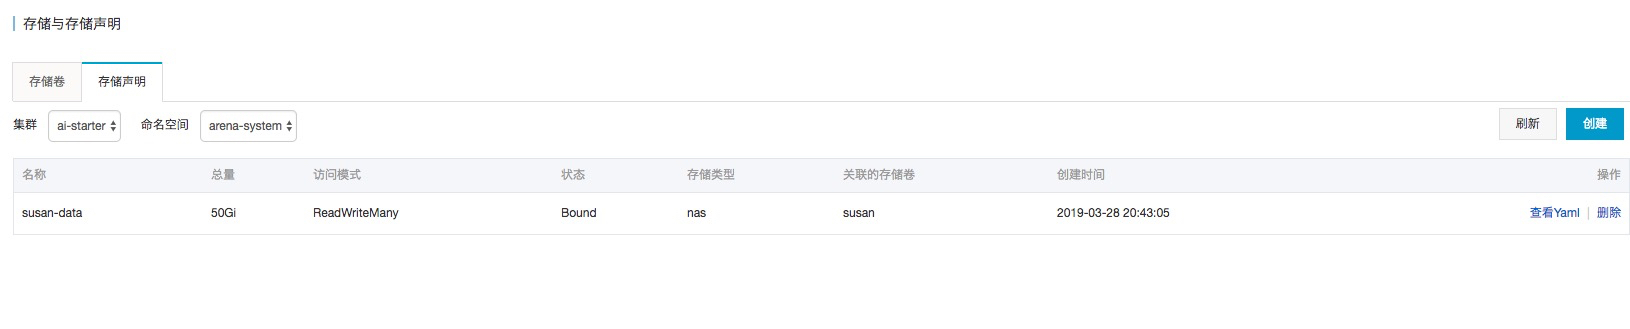
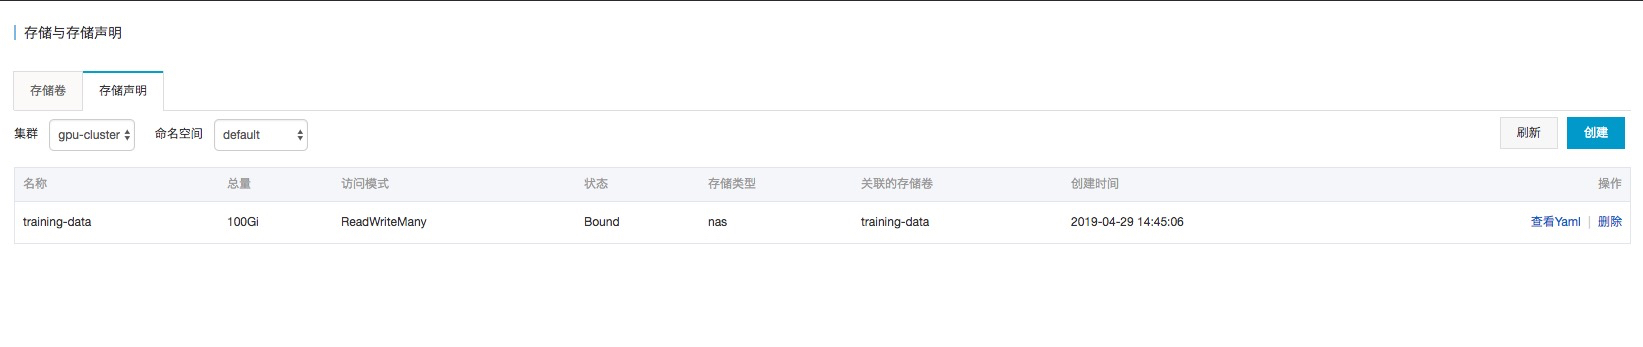
Update docs (#25)
* update install_notebook script for public data

* update docs: 1. public pvc is optional; 2. modify setup pvc docs

diff --git a/docs/setup/SETUP_USER_STORAGE.md b/docs/setup/SETUP_USER_STORAGE.md
@@ -1,7 +1,16 @@
-## 配置存放数据科学家的存储
-在Notebook中，为了保留数据科学家的工作内容。我们建议为用户创建属于自己的存储声明， 并挂载到Notebook的`/root`目录。 保障数据科学家的工作内容（代码，数据） 可以保留，不会随着容器删除而丢失。
-您需要创建属于每个数据科学家的存储声明，例如用户A和用户B，后端可以挂载到相同的NAS/CPFS，但是需要为指定不同的子目录保证他们工作环境内容隔离。
+## 配置Notebook存储
+在Notebook中，为了保留数据科学家的工作内容。我们建议为每个用户分配存储卷，并挂载到Notebook的`/root`目录， 确保数据科学家的工作内容（代码，数据）得以保留，不会随着容器删除而丢失。
 
-您可以通过以下流程创建属于数据科学家自己的存储：
+同时在团队开发中,我们建议分配一个共享的存储池，让数据和代码能够在团队中共享。部署Notebook时，如果您声明了配置公共存储，我们会将共享存储会挂载到Notebook的 `/root/public` 目录中，数据科学家可以通过这个目录，在团队之间可以相互分享数据，代码和模型。 
+
+在Kubernets中，通过存储卷和存储声明描述存储对象。 作为集群管理员，分配环境时您需要为每个数据科学家创建属于自己的存储声明，例如用户A和用户B，存储声明的后端可以挂载到相同的 NAS/CPFS，但是必须指定不同的子目录，保证他们工作环境隔离。
+
+#### 共享存储类型
+
+您可以通过以下流程创建存储声明，选择合适的存储类型：
 * [配置NAS存储](./SETUP_NAS.md)
 * [配置CPFS存储](./SETUP_CPFS.md)
+
+#### 步骤
+1. 您需要创建一个用于存放共享数据的存储卷，我们建议命名为`public-data`。（本步骤可选择操作）
+2. 搭建每个数据科学家的Notebook环境，您需要为他创建属于数据科学家自己的存储声明，用于存放他的工作数据，不同的数据科学家需要通过命名区分，本示例中我们命名为`traing-data`。

diff --git a/docs/setup/SETUP_NOTEBOOK.md b/docs/setup/SETUP_NOTEBOOK.md
@@ -37,8 +37,7 @@
 bash -s -- \
 --notebook-name susan \
 --ingress --ingress-domain foo.bar.com --ingress-secret notebook-secret \
---pvc-name susan-data \
---public-pvc-name public-data
+--pvc-name training-data
 ```
 
 上述安装执行中，可以通过以下参数定制部署的依赖组件：
@@ -49,8 +48,8 @@ bash -s -- \
 --ingress           指定是否为Notebook配置Ingress
 --ingress-domain    指定为Notebook配置的Ingress域名，仅在指定--ingress时生效
 --ingress-secret    指定为Notebook配置的Ingress，HTTPS使用的证书Secret，仅在指定--ingress时生效
---pvc-name          指定Notebook用于挂载的存储声明，会将Notebook的/root目录挂载为这个存储声明，默认值为training-data
---public-pvc-name   指定用于挂载共享数据的存储声明，会将Notebook的/root/public 目录挂载为这个存储声明
+--pvc-name          指定Notebook用于挂载的存储声明，将Notebook的/root目录挂载为这个存储声明，默认值为training-data
+--public-pvc-name   指定用于挂载共享数据的存储声明，将Notebook的/root/public 目录挂载为这个存储声明
 --notebook-image    指定Notebook的使用镜像，默认是registry.cn-beijing.aliyuncs.com/acs/arena-notebook:cpu
 --clean             如果指定了--clean参数，会清理之前通过脚本部署的Notebook应用
 ```

diff --git a/README.md b/README.md
@@ -18,9 +18,8 @@
 	1.  环境准备
 		* [创建集群](docs/setup/CREATE_CLUSTER.md)
 		* [安装机器学习基础架构](docs/setup/INSTALL_ARENA.md)
-		* [配置存放公共数据的存储](docs/setup/SETUP_PUBLIC_STORAGE.md)
 	2. 部署Notebook
-		* [配置存放数据科学家的存储](docs/setup/SETUP_USER_STORAGE.md)
+		* [配置共享存储](docs/setup/SETUP_USER_STORAGE.md)
 		* [部署数据科学家工作环境（Notebook）](docs/setup/SETUP_NOTEBOOK.md)
 
 * 数据科学家的工作
@@ -31,5 +30,3 @@
 		* [单机mnist](demo/1-start-with-mnist.ipynb)
 		* [多机mnist](demo/2-distributed-mnist.ipynb)
 		* [MPI分布式训练](demo8/3-submit-mpi.ipynb)
-		* [Resnet模型发布](docs/practice/RESNET.md)
-		* [Bert模型](docs/practice/BERT.md)

diff --git a/docs/setup/SETUP_PUBLIC_STORAGE.md b/docs/setup/SETUP_PUBLIC_STORAGE.md
@@ -1,4 +1,4 @@
-## 配置存放公共数据的存储
+## 配置用于存放数据的存储卷
 运行机器学习模型训练需要训练代码，数据以及训练结果的输出，需要通过共享存储进行管理，并在模型训练程序中共享。
 Kubernetes中提供了PV（数据卷）和PVC（数据卷声明）作为共享存储的描述对象。阿里云在此之上提供CPFS, NAS和OSS的Flexvolume Driver ，可以轻松将阿里云的CPFS, NAS和OSS 等存储服务对接到Kubernetes集群。
 
